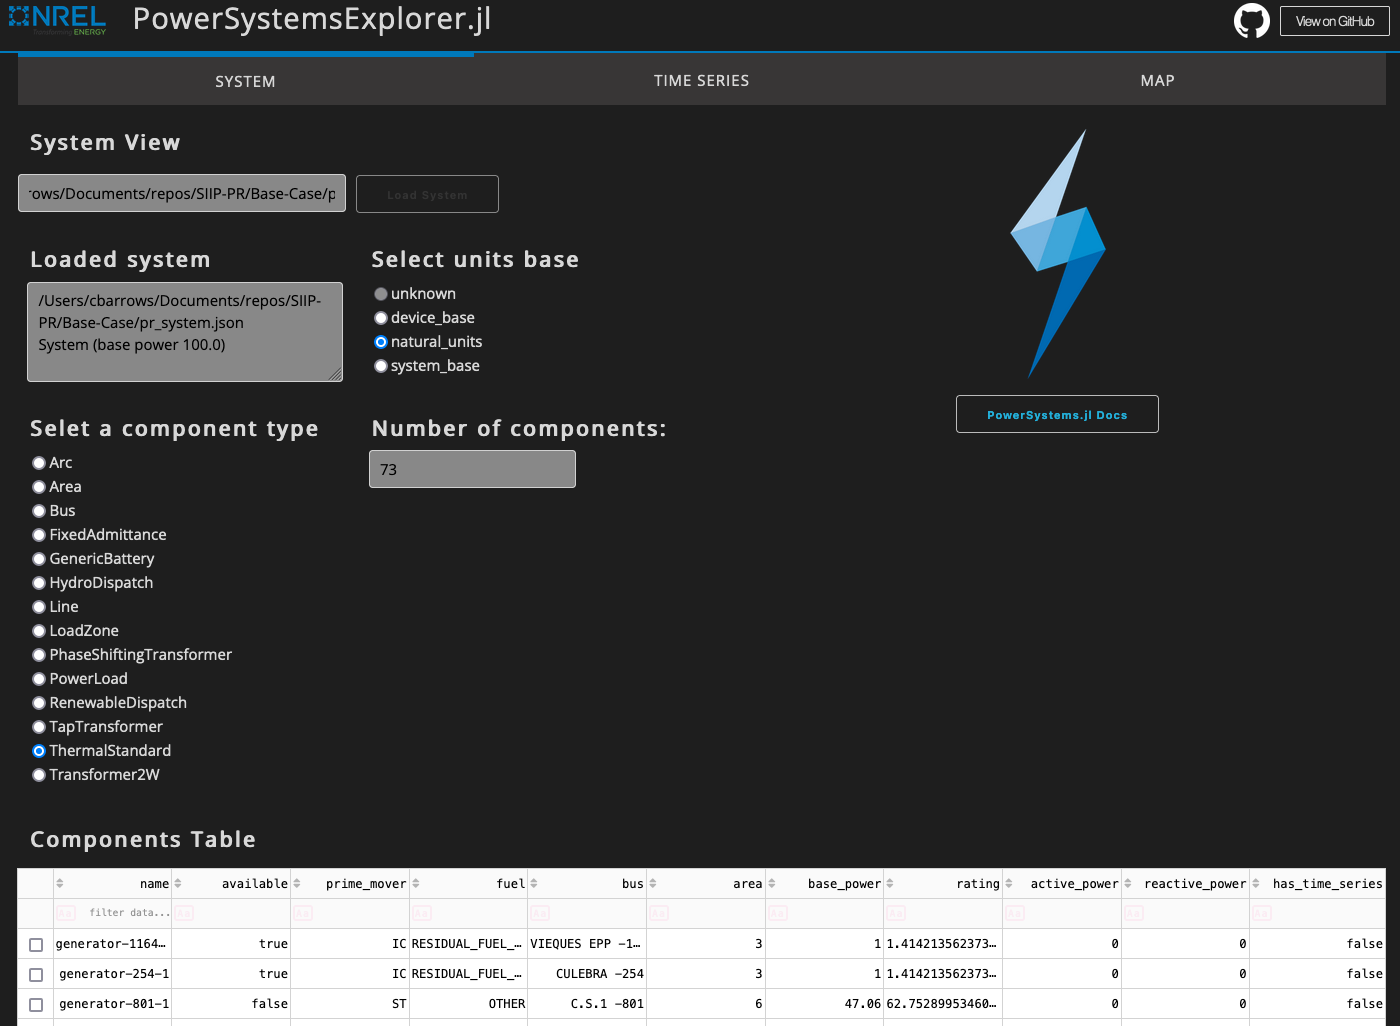
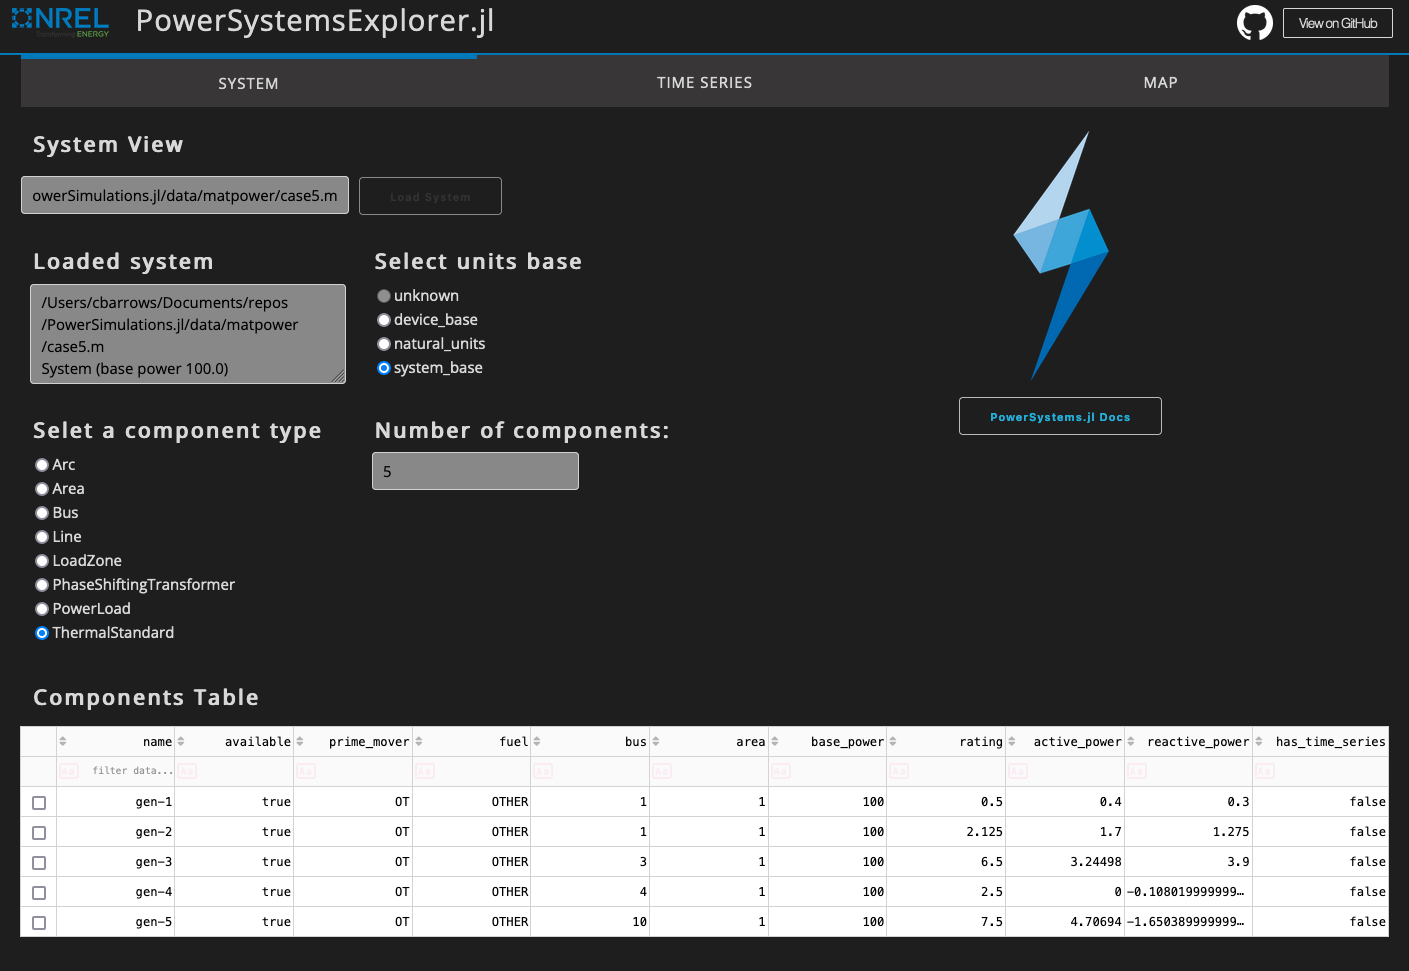
adding image to readme

Changed region(s): [[0.0, 0.0, 1.0, 1.0], [0.7064, 0.1545, 0.7986, 0.3708], [0.6757, 0.3708, 0.8293, 0.4325]]

diff --git a/README.md b/README.md
@@ -1,7 +1,9 @@
 # PowerSystemsApps.jl
 
 The `PowerSystemsApps.jl` package provides tools to view and manage systems created with
-[PowerSystems.jl](https://github.com/NREL-SIIP/PowerSystems.jl)
+[PowerSystems.jl](https://github.com/NREL-SIIP/PowerSystems.jl) in a web app interface like the one shown here:
+
+![img](image.png)
 
 ## Usage
 
@@ -12,7 +14,7 @@ $ julia --project
 julia> ]instantiate
 ```
 
-### PowerSystemViewer
+### PowerSystemsExplorer
 
 This application allows users to browse PowerSystems components and time series data in a web UI
 via Plotly Dash. Here's how to start it:
